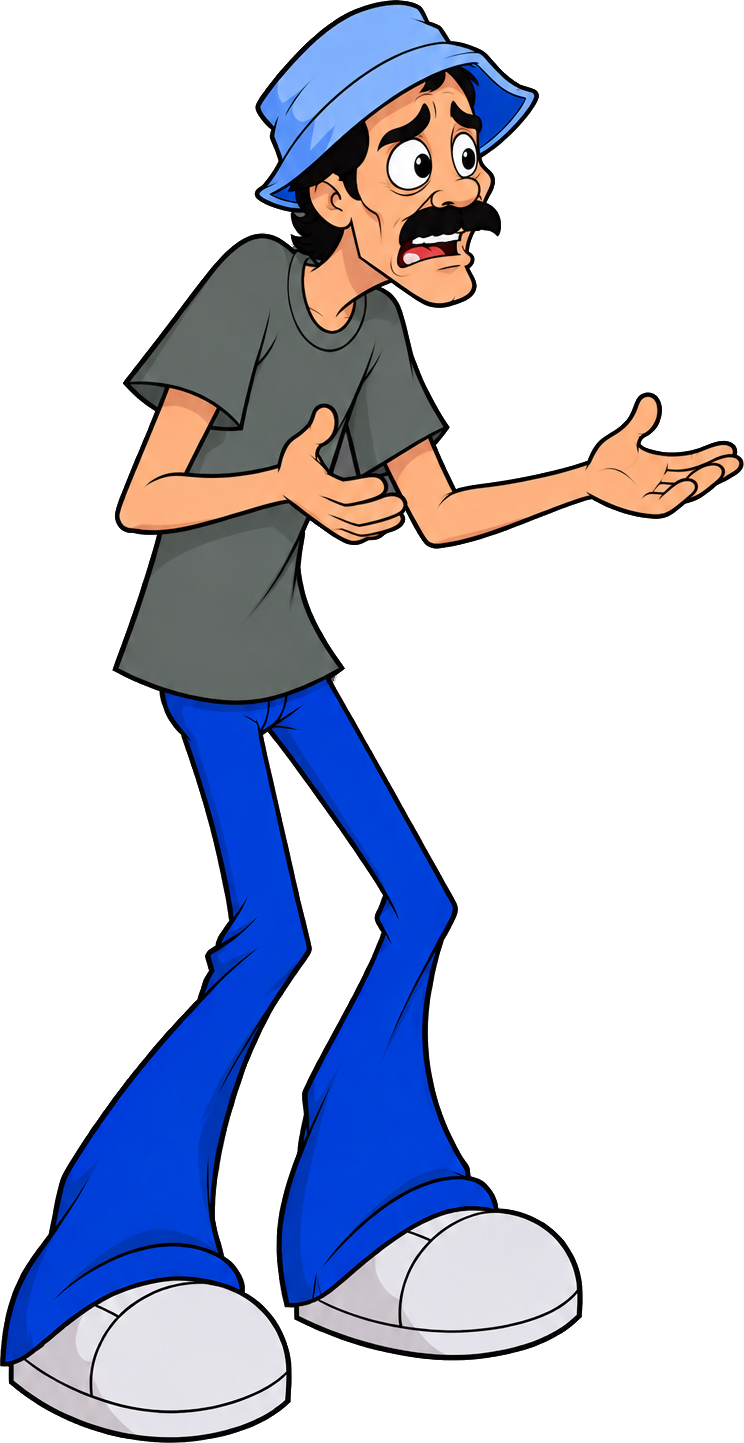
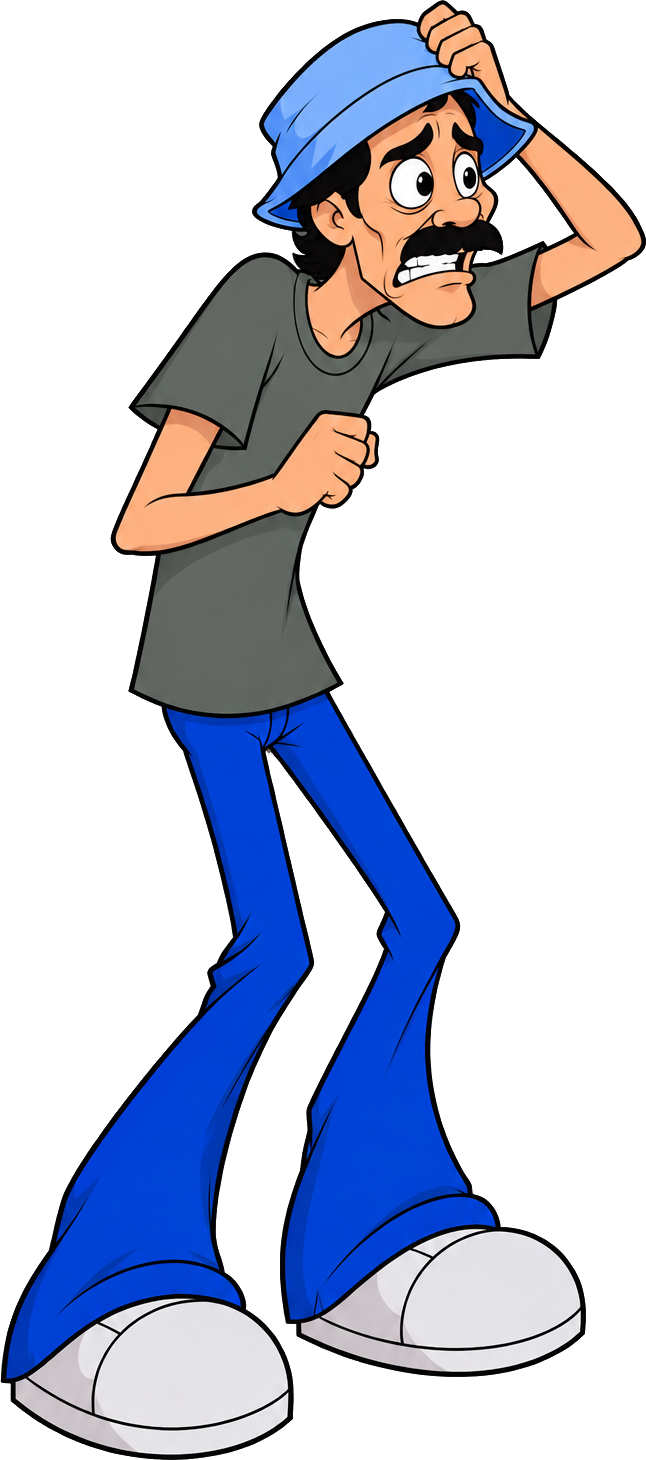
Video vuelve a 8:34 y la batalla final arranca 1.3 s antes (8:45.7); Don Ramón idle con miedo nuevo
Claude-Session: https://claude.ai/code/session_01P2fenRo9fHzDP1rkeHdP5u

diff --git a/src/config/song.js b/src/config/song.js
@@ -352,7 +352,7 @@ FB.SONG = {
     { n: 7, nombre: 'Ñoño', t: 375.92 },
     { n: 8, nombre: 'El Sr. Barriga', t: 411 },
     { n: 9, nombre: 'Rescatar a Ñoño', t: 456 },
-    { n: 10, nombre: 'La última fiesta', t: 527 },
+    { n: 10, nombre: 'La última fiesta', t: 525.7 },
   ],
 
   // Cada segmento lista TODOS los personajes en escena además del jugador
@@ -731,7 +731,7 @@ FB.SONG = {
 
     // ── Parte 10 (8:47): batalla final contra el Chavo en su forma final (escopeta: bloquear / disparar) ──
     {
-      t: 527,
+      t: 525.7,
       stage: {
         bg: 'patio',
         opponents: [
@@ -1081,25 +1081,25 @@ FB.SONG = {
     { t: 502, type: 'flashSprite', char: 'nono', dur: 0.6, shake: 4 },
     // 8:34 video
     // video a pantalla completa con su audio (volume: 0.5 = 50% del volumen de la música)
-    // entra con destello blanco y sale con destello rojo justo cuando arranca la pelea final (8:47)
-    { t: 515.3, type: 'video', src: 'src/assets/video/escena.mp4', dur: 11.7, volume: 0.5, flashIn: '#ffffff', flashOut: '#ff1a1a' },
-    // 8:47 batalla final
-    { t: 526.8, type: 'swapPlayer', char: 'jirafales' },
-    { t: 526.9, type: 'face', char: 'jirafales', dir: 'right' },
-    { t: 527, type: 'flash', dur: 0.6, color: '#ff1a1a', alpha: 0.9 }, // rojo, sale del video
-    { t: 527, type: 'flashSprite', char: 'chavo', dur: 0.5, shake: 12 },
-    { t: 527, type: 'shake', power: 16, dur: 0.7 },
-    { t: 527, type: 'filter', mode: 'oscuro', amount: 0.45, dur: 0.5 },
+    // 8:34 entra con destello blanco y sale con destello rojo justo cuando arranca la pelea final (8:45.7)
+    { t: 514, type: 'video', src: 'src/assets/video/escena.mp4', dur: 11.7, volume: 0.5, flashIn: '#ffffff', flashOut: '#ff1a1a' },
+    // 8:45.7 batalla final (arranca apenas termina el video)
+    { t: 525.5, type: 'swapPlayer', char: 'jirafales' },
+    { t: 525.6, type: 'face', char: 'jirafales', dir: 'right' },
+    { t: 525.7, type: 'flash', dur: 0.6, color: '#ff1a1a', alpha: 0.9 }, // rojo, sale del video
+    { t: 525.7, type: 'flashSprite', char: 'chavo', dur: 0.5, shake: 12 },
+    { t: 525.7, type: 'shake', power: 16, dur: 0.7 },
+    { t: 525.7, type: 'filter', mode: 'oscuro', amount: 0.45, dur: 0.5 },
     // 8:53 su forma verdadera
     { t: 533, type: 'flash', dur: 0.5 },
     { t: 533, type: 'flashSprite', char: 'chavo', dur: 0.6, shake: 14 },
     { t: 533, type: 'setState', char: 'chavo', state: 'final' },
     { t: 533, type: 'shake', power: 14, dur: 0.6 },
     { t: 533, type: 'bump', amount: 0.08 },
-    { t: 527, type: 'walk', char: 'jirafales', from: 290, to: 400, dur: 0.6, end: 'escopeta' },
-    { t: 527, type: 'walk', char: 'barriga', from: 400, to: 155, dur: 0.8, end: 'sano' },
-    { t: 527, type: 'walk', char: 'nono', from: 960, to: 65, dur: 1.6, end: 'asustado' }, // atrás del grupo, con miedo
-    { t: 527, type: 'walk', char: 'quico', from: 260, to: 110, dur: 0.8, end: 'sano' },
+    { t: 525.7, type: 'walk', char: 'jirafales', from: 290, to: 400, dur: 0.6, end: 'escopeta' },
+    { t: 525.7, type: 'walk', char: 'barriga', from: 400, to: 155, dur: 0.8, end: 'sano' },
+    { t: 525.7, type: 'walk', char: 'nono', from: 960, to: 65, dur: 1.6, end: 'asustado' }, // atrás del grupo, con miedo
+    { t: 525.7, type: 'walk', char: 'quico', from: 260, to: 110, dur: 0.8, end: 'sano' },
     // 9:32 clímax: últimos segundos para ganar
     { t: 572, type: 'flash', dur: 0.4 },
     { t: 572, type: 'mech', set: { attackEvery: 2, warnBeats: 1.5, damage: 15 } },

diff --git a/src/config/characters.js b/src/config/characters.js
@@ -125,25 +125,25 @@ FB.CHARACTERS = {
     height: 320,
     // ramon_sheet.png: 10 poses (miran a la derecha, menos el baile que mira a la izquierda):
     //   0 corrupto enojado, 1 corrupto gritando (PE-LI-GRO), 2 curación incompleta, 3 curación casi completa,
-    //   4 recién curado, 5 sano (miedo / hablando), 6 sano "Monchito te va a salvar",
-    //   7-8 baile (2 cuadros, invertidos para la derecha), 9 baile enter
+    //   4 recién curado, 5 sano hablando, 6 sano "Monchito te va a salvar",
+    //   7-8 baile (2 cuadros, invertidos para la derecha), 9 baile enter, 10 sano idle con miedo (combate / atrás)
     // baile en 2 cuadros: cada paso muestra el 1º y después el 2º
     dancePoses: { left: ['baile_izq', 'baile_izq2'], right: ['baile_der', 'baile_der2'], confirm: 'baile_enter' },
     sprites: {
-      corrupto: { src: 'src/assets/personaje/ramon/ramon_sheet.png', cols: 10, frame: 0 },
-      grito: { src: 'src/assets/personaje/ramon/ramon_sheet.png', cols: 10, frame: 1 },
-      curando: { src: 'src/assets/personaje/ramon/ramon_sheet.png', cols: 10, frame: 2 },
-      casi: { src: 'src/assets/personaje/ramon/ramon_sheet.png', cols: 10, frame: 3 },
-      curado: { src: 'src/assets/personaje/ramon/ramon_sheet.png', cols: 10, frame: 4 },
-      sano: { src: 'src/assets/personaje/ramon/ramon_sheet.png', cols: 10, frame: 5 },
-      asustado: { src: 'src/assets/personaje/ramon/ramon_sheet.png', cols: 10, frame: 5 },
-      hablando: { src: 'src/assets/personaje/ramon/ramon_sheet.png', cols: 10, frame: 5 },
-      seguro: { src: 'src/assets/personaje/ramon/ramon_sheet.png', cols: 10, frame: 6 },
-      baile_izq: { src: 'src/assets/personaje/ramon/ramon_sheet.png', cols: 10, frame: 7 },
-      baile_izq2: { src: 'src/assets/personaje/ramon/ramon_sheet.png', cols: 10, frame: 8 },
-      baile_der: { src: 'src/assets/personaje/ramon/ramon_sheet.png', cols: 10, frame: 7, mirror: true },
-      baile_der2: { src: 'src/assets/personaje/ramon/ramon_sheet.png', cols: 10, frame: 8, mirror: true },
-      baile_enter: { src: 'src/assets/personaje/ramon/ramon_sheet.png', cols: 10, frame: 9 },
+      corrupto: { src: 'src/assets/personaje/ramon/ramon_sheet.png', cols: 11, frame: 0 },
+      grito: { src: 'src/assets/personaje/ramon/ramon_sheet.png', cols: 11, frame: 1 },
+      curando: { src: 'src/assets/personaje/ramon/ramon_sheet.png', cols: 11, frame: 2 },
+      casi: { src: 'src/assets/personaje/ramon/ramon_sheet.png', cols: 11, frame: 3 },
+      curado: { src: 'src/assets/personaje/ramon/ramon_sheet.png', cols: 11, frame: 4 },
+      sano: { src: 'src/assets/personaje/ramon/ramon_sheet.png', cols: 11, frame: 10 },
+      asustado: { src: 'src/assets/personaje/ramon/ramon_sheet.png', cols: 11, frame: 10 },
+      hablando: { src: 'src/assets/personaje/ramon/ramon_sheet.png', cols: 11, frame: 5 },
+      seguro: { src: 'src/assets/personaje/ramon/ramon_sheet.png', cols: 11, frame: 6 },
+      baile_izq: { src: 'src/assets/personaje/ramon/ramon_sheet.png', cols: 11, frame: 7 },
+      baile_izq2: { src: 'src/assets/personaje/ramon/ramon_sheet.png', cols: 11, frame: 8 },
+      baile_der: { src: 'src/assets/personaje/ramon/ramon_sheet.png', cols: 11, frame: 7, mirror: true },
+      baile_der2: { src: 'src/assets/personaje/ramon/ramon_sheet.png', cols: 11, frame: 8, mirror: true },
+      baile_enter: { src: 'src/assets/personaje/ramon/ramon_sheet.png', cols: 11, frame: 9 },
     },
   },
   nono: {

diff --git a/index.html b/index.html
@@ -6,8 +6,8 @@
     <title>Fiesta de la Buena Vecindad</title>
     <link rel="preconnect" href="https://fonts.googleapis.com" />
     <link href="https://fonts.googleapis.com/css2?family=Press+Start+2P&display=swap" rel="stylesheet" />
-    <link rel="stylesheet" href="ui-components.css?v=202610120730" />
-    <link rel="stylesheet" href="css/fiesta.css?v=202610120730" />
+    <link rel="stylesheet" href="ui-components.css?v=202610121742" />
+    <link rel="stylesheet" href="css/fiesta.css?v=202610121742" />
   </head>
   <body>
     <div id="wrap">
@@ -100,22 +100,22 @@
       </div>
     </div>
 
-    <script src="engine2d.js?v=202610120730"></script>
-    <script src="src/config/characters.js?v=202610120730"></script>
-    <script src="src/config/song.js?v=202610120730"></script>
-    <script src="src/core/conductor.js?v=202610120730"></script>
-    <script src="src/core/camera.js?v=202610120730"></script>
-    <script src="src/core/stage.js?v=202610120730"></script>
-    <script src="src/mechanics/base.js?v=202610120730"></script>
-    <script src="src/core/intro.js?v=202610120730"></script>
-    <script src="src/mechanics/bulletbox.js?v=202610120730"></script>
-    <script src="src/mechanics/rhythm.js?v=202610120730"></script>
-    <script src="src/mechanics/choice.js?v=202610120730"></script>
-    <script src="src/mechanics/blockshoot.js?v=202610120730"></script>
-    <script src="src/mechanics/rescue.js?v=202610120730"></script>
-    <script src="src/game.js?v=202610120730"></script>
-    <script src="src/mobile.js?v=202610120730"></script>
-    <script src="src/menumusic.js?v=202610120730"></script>
-    <script src="src/fxlab.js?v=202610120730"></script>
+    <script src="engine2d.js?v=202610121742"></script>
+    <script src="src/config/characters.js?v=202610121742"></script>
+    <script src="src/config/song.js?v=202610121742"></script>
+    <script src="src/core/conductor.js?v=202610121742"></script>
+    <script src="src/core/camera.js?v=202610121742"></script>
+    <script src="src/core/stage.js?v=202610121742"></script>
+    <script src="src/mechanics/base.js?v=202610121742"></script>
+    <script src="src/core/intro.js?v=202610121742"></script>
+    <script src="src/mechanics/bulletbox.js?v=202610121742"></script>
+    <script src="src/mechanics/rhythm.js?v=202610121742"></script>
+    <script src="src/mechanics/choice.js?v=202610121742"></script>
+    <script src="src/mechanics/blockshoot.js?v=202610121742"></script>
+    <script src="src/mechanics/rescue.js?v=202610121742"></script>
+    <script src="src/game.js?v=202610121742"></script>
+    <script src="src/mobile.js?v=202610121742"></script>
+    <script src="src/menumusic.js?v=202610121742"></script>
+    <script src="src/fxlab.js?v=202610121742"></script>
   </body>
 </html>
